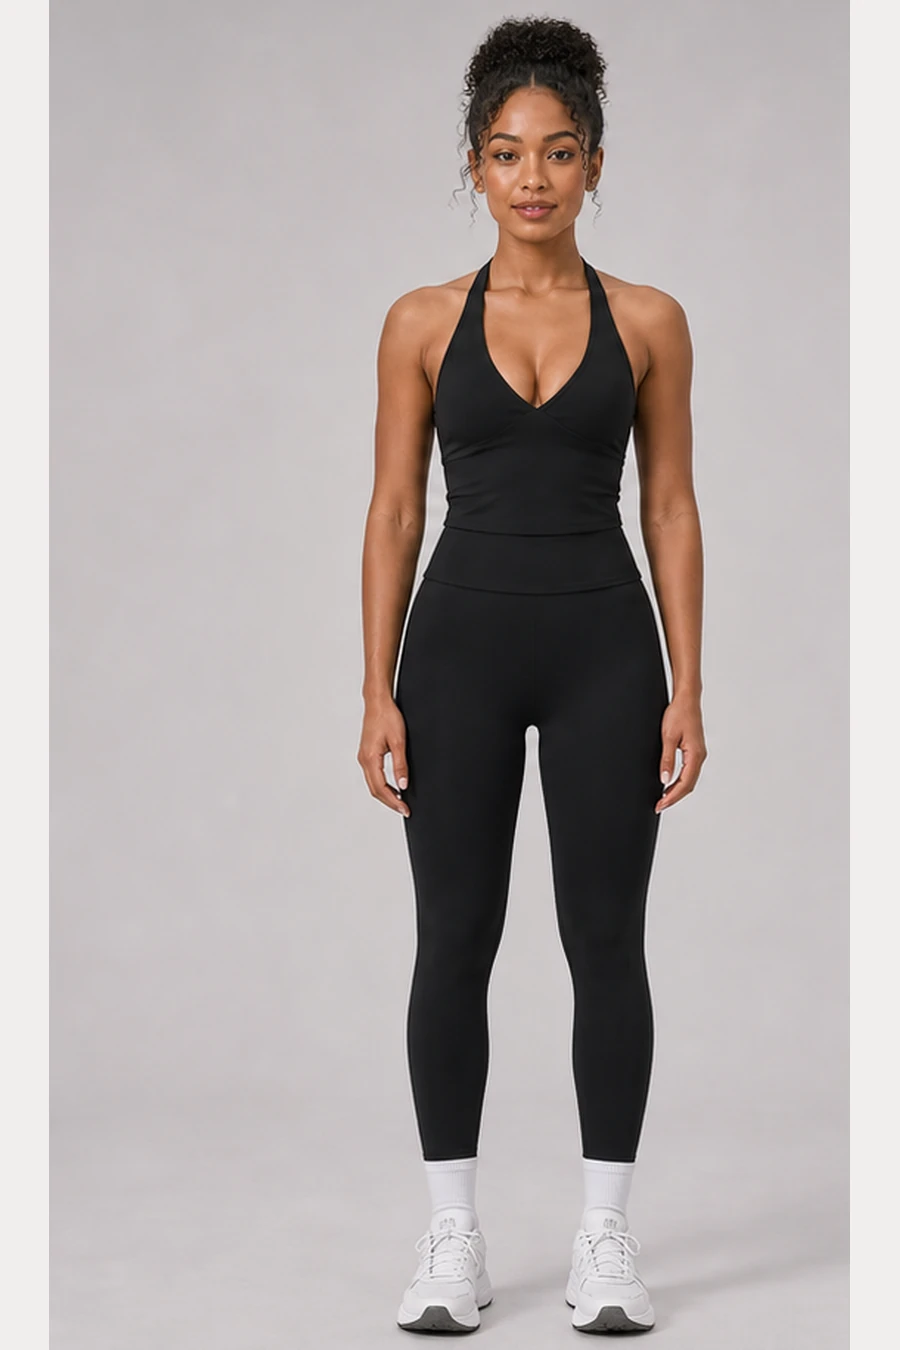
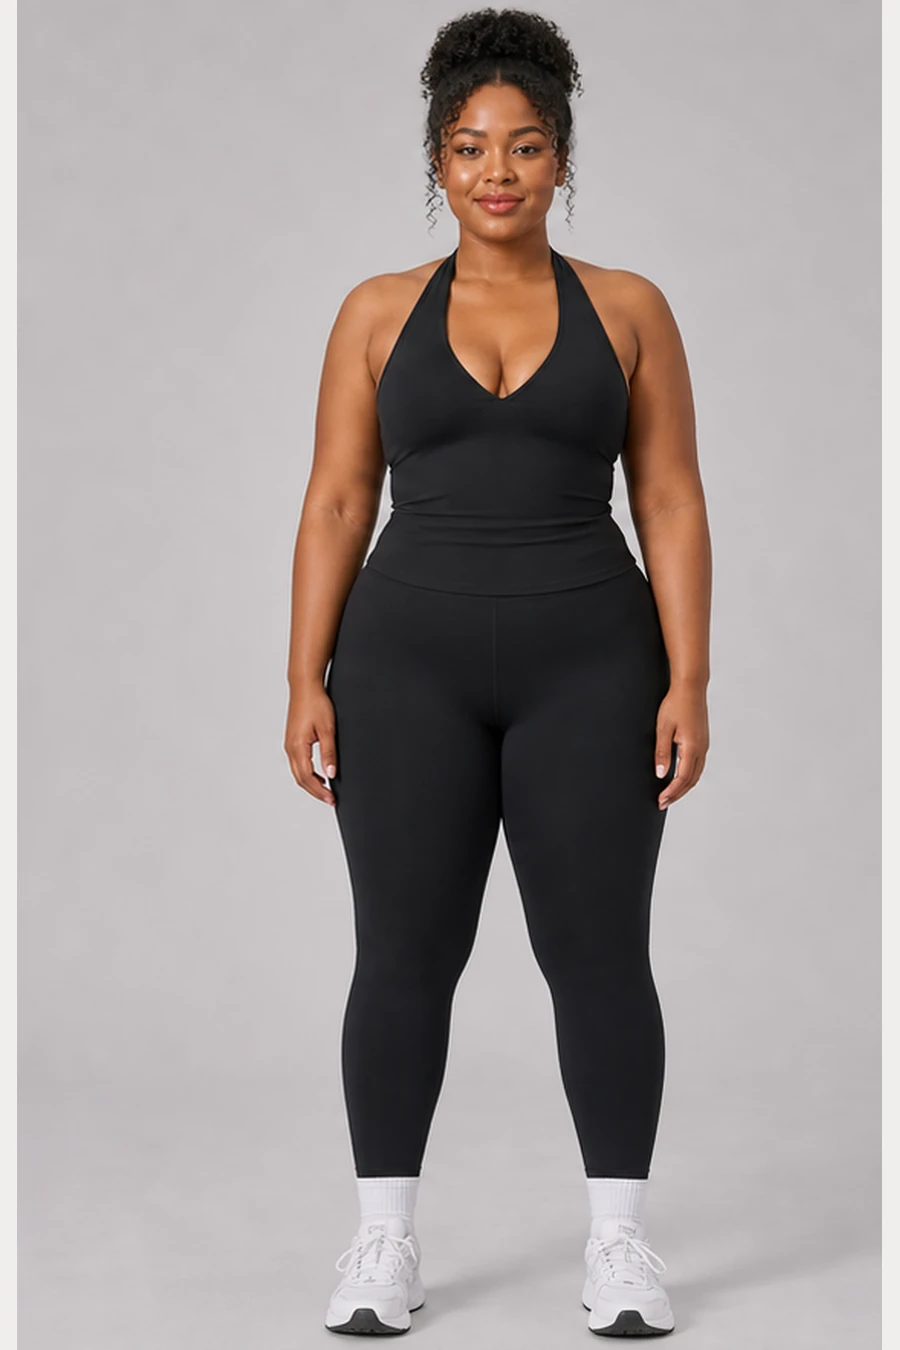
Add diverse model imagery for first KALM Move women product

Changed region(s): [[0.3111, 0.0, 0.8089, 0.9956], [0.9333, 0.0, 0.9956, 1.0], [0.0, 0.0, 0.0622, 1.0]]

diff --git a/styles.css b/styles.css
@@ -1066,6 +1066,7 @@ button {
   height: 100%;
   min-height: 0;
   object-fit: cover;
+  object-position: center;
 }
 
 .product-info {

diff --git a/PRODUCT_IMAGE_QA_AUDIT.md b/PRODUCT_IMAGE_QA_AUDIT.md
@@ -111,7 +111,7 @@ The current KALM Move women clothing range is rebuilt from Munya's supplied supp
 
 | Product | Live colours | Sizes | Image count per live colour | Source status | QA status |
 |---|---|---|---|---|---|
-| KALM Move Align Halter Legging Set | Black, Pink Drink, Grayish Blue, Delicate Red, Date Brown | S, M, L, XL | 3 | Generated adult human ecommerce model images per colour, checked against `IMG-20260709-WA0079` to `WA0081` for the V-front halter, straight-band open back and colour range. Not Alibaba UI crops. | Complete for first-product human-model reset |
+| KALM Move Align Halter Legging Set | Black, Pink Drink, Grayish Blue, Delicate Red, Date Brown | S, M, L, XL | 3 | Generated adult human ecommerce model images per colour, checked against `IMG-20260709-WA0079` to `WA0081` for the V-front halter, straight-band open back and colour range. Model mix includes Black fuller/XL fit, White size-L fit, Coloured/mixed-race medium fit, South Asian/Indian medium fit and Black medium fit. Not Alibaba UI crops. | Complete for first-product diverse human-model reset |
 | KALM Move Form Short Set | White | S, M, L, XL | 3 | Generated model-on-body images matched to `IMG-20260709-WA0082` to `WA0084` | Complete for source-backed reset |
 | KALM Move Pulse Crop Short Set | Black | S, M, L, XL | 3 | Generated model-on-body images matched to `IMG-20260709-WA0085` to `WA0087` | Complete for source-backed reset |
 | KALM Move Ease Flare Legging | Gray Blue | XS, S, M, L, XL | 3 | Generated model-on-body images matched to `IMG-20260709-WA0088` to `WA0091` | Complete for source-backed reset |

diff --git a/MODEL_DIVERSITY_AUDIT.md b/MODEL_DIVERSITY_AUDIT.md
@@ -112,7 +112,7 @@ Current new women products and live source-backed coverage:
 
 | Product | Live colours | Model/body note | Status |
 |---|---|---|---|
-| KALM Move Align Halter Legging Set | Black, Pink Drink, Grayish Blue, Delicate Red, Date Brown | Generated adult human ecommerce model imagery across the five supplier colours. Includes Black and Asian/mixed-representation while preserving the supplier V-front halter and straight-band back construction. | Complete for first-product human-model reset |
+| KALM Move Align Halter Legging Set | Black, Pink Drink, Grayish Blue, Delicate Red, Date Brown | Generated adult human ecommerce model imagery across the five supplier colours. Includes Black fuller/XL fit, White size-L fit, Coloured/mixed-race medium fit, South Asian/Indian medium fit and Black medium fit while preserving the supplier V-front halter and straight-band back construction. | Complete for first-product diverse human-model reset |
 | KALM Move Form Short Set | White | Generated adult South Asian/Indian model imagery matched to supplier fitted short-set reference | Complete for supplied-reference reset |
 | KALM Move Pulse Crop Short Set | Black | Generated adult White model imagery matched to supplier high-neck crop and short-set reference | Complete for supplied-reference reset |
 | KALM Move Ease Flare Legging | Gray Blue | Generated adult Black model imagery matched to supplier flare-legging reference | Complete for supplied-reference reset |

diff --git a/KALM_MOVE_IMAGE_REBUILD_AUDIT.md b/KALM_MOVE_IMAGE_REBUILD_AUDIT.md
@@ -67,7 +67,7 @@ Current live-ready women clothing products:
 
 | Product | Live colours | Sizes | Image structure |
 |---|---|---|---|
-| KALM Move Align Halter Legging Set | Black, Pink Drink, Grayish Blue, Delicate Red, Date Brown | S, M, L, XL | Generated human ecommerce model `front.webp`, `angle.webp`, `back.webp` per colour; checked against supplier V-front halter and straight-band back reference |
+| KALM Move Align Halter Legging Set | Black, Pink Drink, Grayish Blue, Delicate Red, Date Brown | S, M, L, XL | Generated diverse human ecommerce model `front.webp`, `angle.webp`, `back.webp` per colour; checked against supplier V-front halter and straight-band back reference |
 | KALM Move Form Short Set | White | S, M, L, XL | `front.webp`, `angle.webp`, `movement.webp` |
 | KALM Move Pulse Crop Short Set | Black | S, M, L, XL | `front.webp`, `angle.webp`, `movement.webp` |
 | KALM Move Ease Flare Legging | Gray Blue | XS, S, M, L, XL | `front.webp`, `angle.webp`, `movement.webp` |
